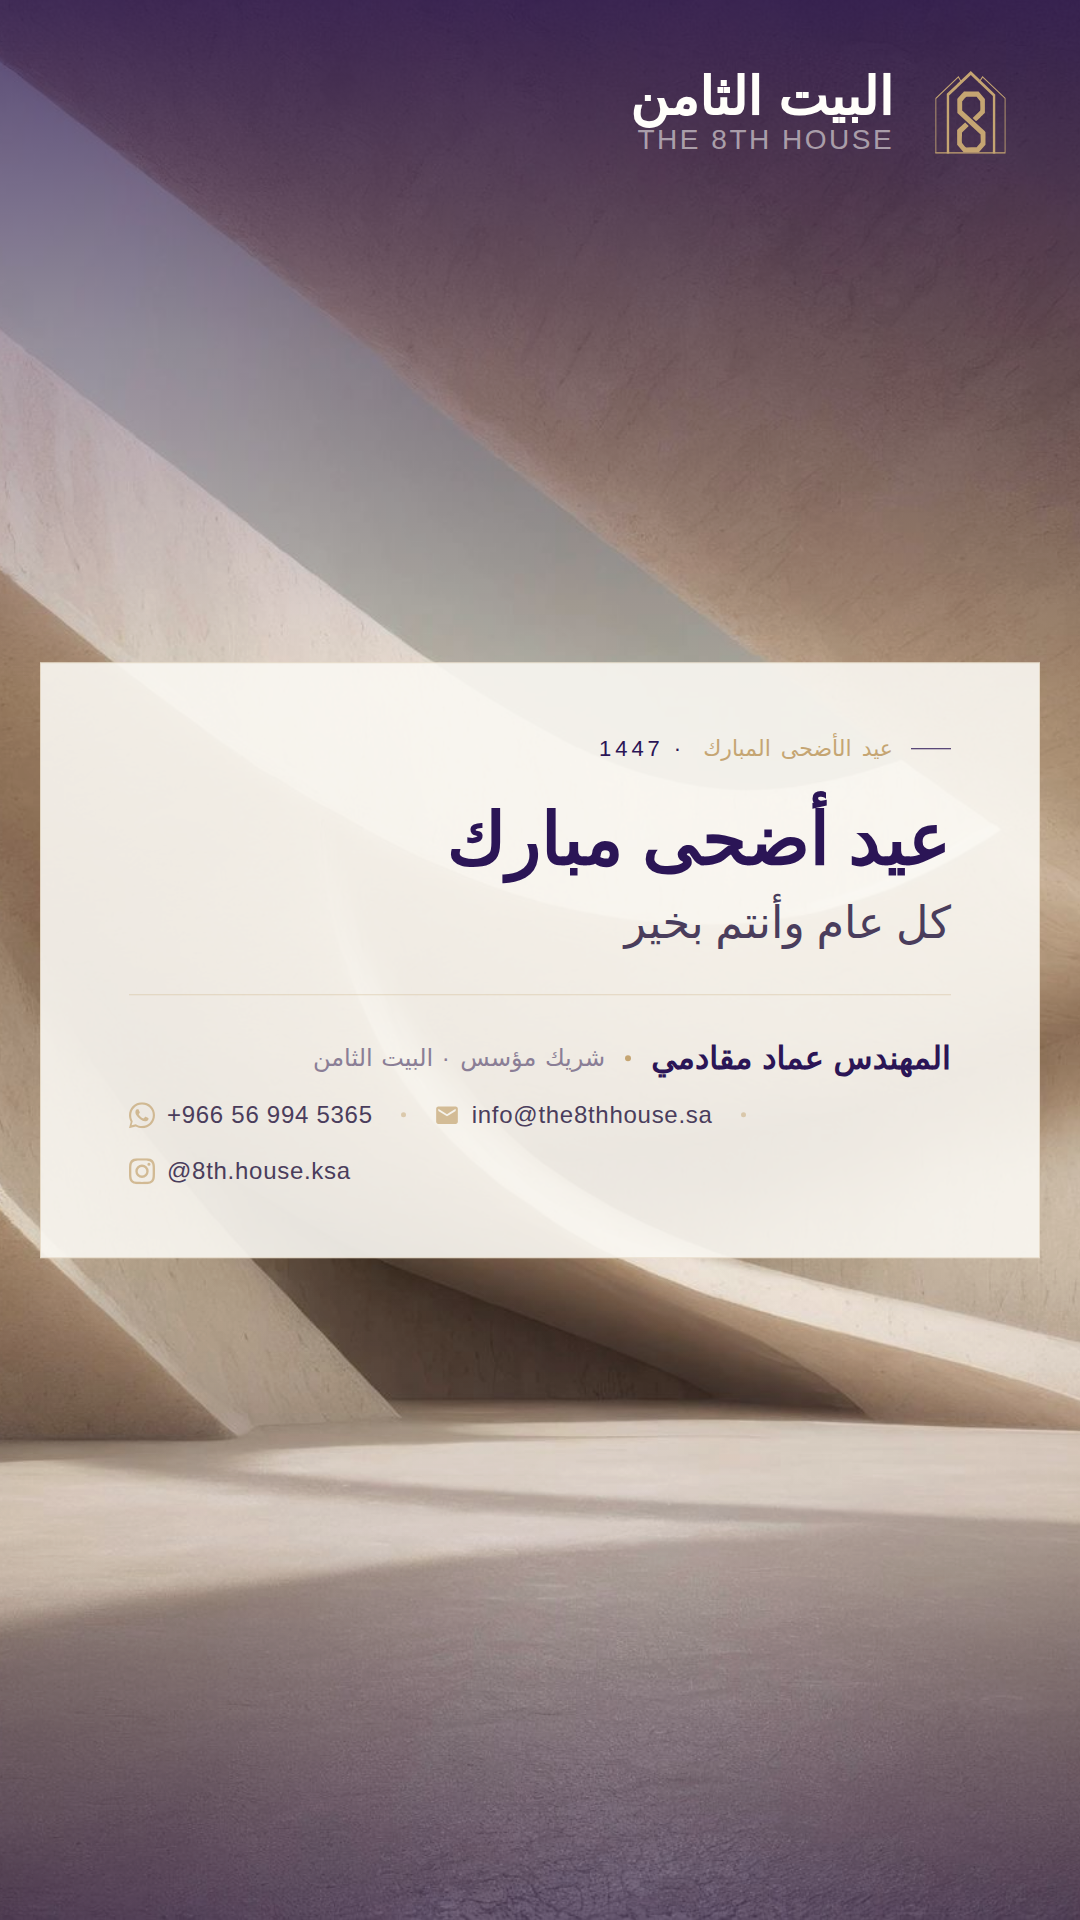
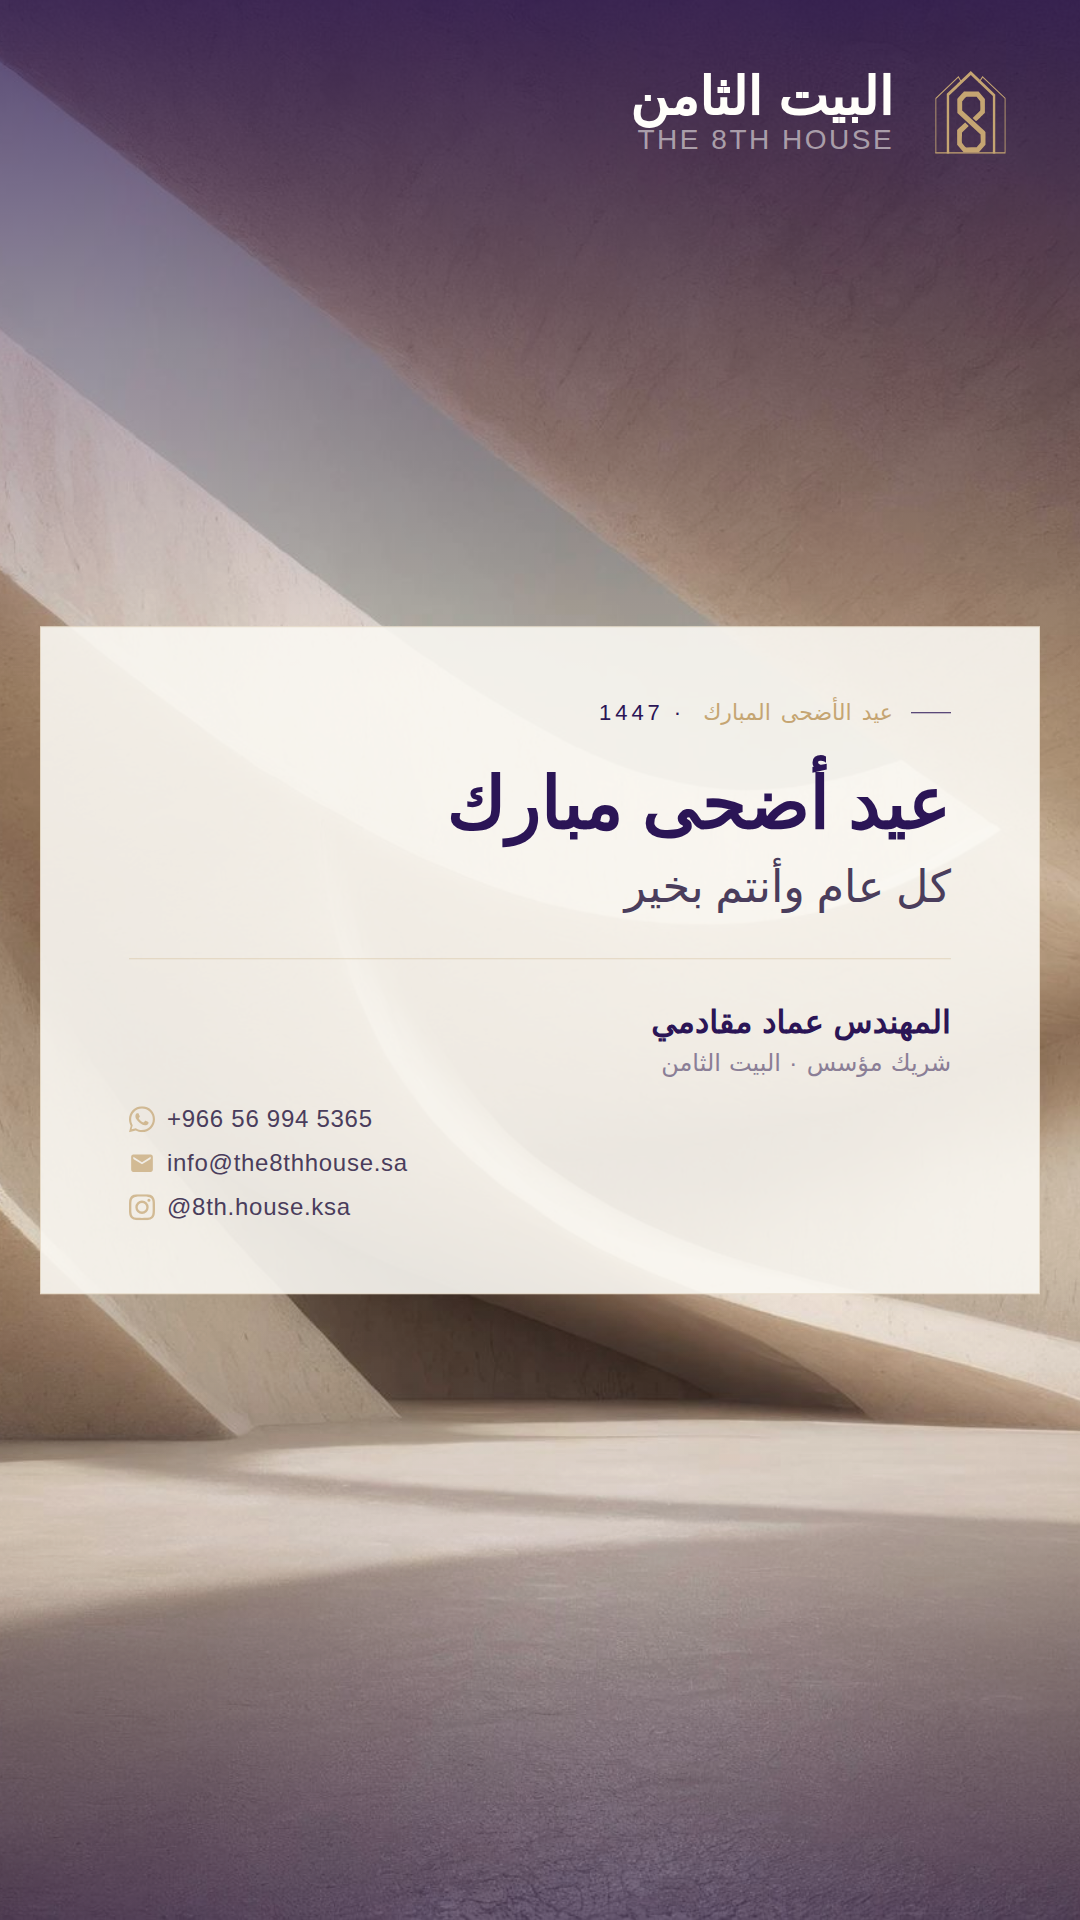
Eid Al-Adha cards: stacked contact info and sender title below name
https://claude.ai/code/session_01CSSTbXjfUtb6qJ2tW8hjCv

diff --git a/eid-cards.html b/eid-cards.html
@@ -179,14 +179,17 @@
     /* divider */
     .card__div { width: 100%; height: 1px; background: rgba(197,165,114,.35); margin: 44px 0; }
 
-    /* sender */
-    .card__sender { display: flex; align-items: center; gap: 20px; flex-wrap: wrap; margin-bottom: 24px; }
+    /* sender — stacked vertically */
+    .card__sender { display: flex; flex-direction: column; align-items: flex-start; gap: 8px; margin-bottom: 28px; }
     .card__sender-name  { font-size: 32px; font-weight: 700; color: var(--purple-royal); letter-spacing: .03em; }
-    .card__sender-dot   { width: 6px; height: 6px; border-radius: 50%; background: var(--gold); flex-shrink: 0; }
-    .card__sender-title { font-size: 24px; font-weight: 300; color: var(--text-muted); letter-spacing: .08em; }
+    .card__sender-dot   { display: none; }
+    .card__sender-title { font-size: 24px; font-weight: 300; color: var(--text-muted); letter-spacing: .06em; }
 
-    /* contact */
-    .card__contact { display: flex; align-items: center; gap: 28px; direction: ltr; flex-wrap: wrap; }
+    /* contact — stacked vertically */
+    .card__contact { display: flex; flex-direction: column; align-items: flex-start; gap: 16px; direction: ltr; }
+    .card__ci { display: flex; align-items: center; gap: 14px; font-size: 24px; font-weight: 300; color: var(--text-secondary); letter-spacing: .03em; white-space: nowrap; }
+    .card__ci svg { width: 26px; height: 26px; opacity: .7; flex-shrink: 0; }
+    .card__csep { display: none; }
     .card__ci { display: flex; align-items: center; gap: 12px; font-size: 24px; font-weight: 300; color: var(--text-secondary); letter-spacing: .03em; white-space: nowrap; }
     .card__ci svg { width: 26px; height: 26px; opacity: .7; flex-shrink: 0; }
     .card__csep   { width: 5px; height: 5px; border-radius: 50%; background: rgba(197,165,114,.5); }
@@ -197,7 +200,8 @@
     .card--en .card__body    { direction: ltr; }
     .card--en .card__title   { direction: ltr; }
     .card--en .card__lbl     { direction: ltr; }
-    .card--en .card__sender  { direction: ltr; }
+    .card--en .card__sender  { direction: ltr; align-items: flex-start; }
+    .card--en .card__contact { align-items: flex-start; }
 
     /* en title mirrors hero__sub */
     .card--en .card__title-main {
